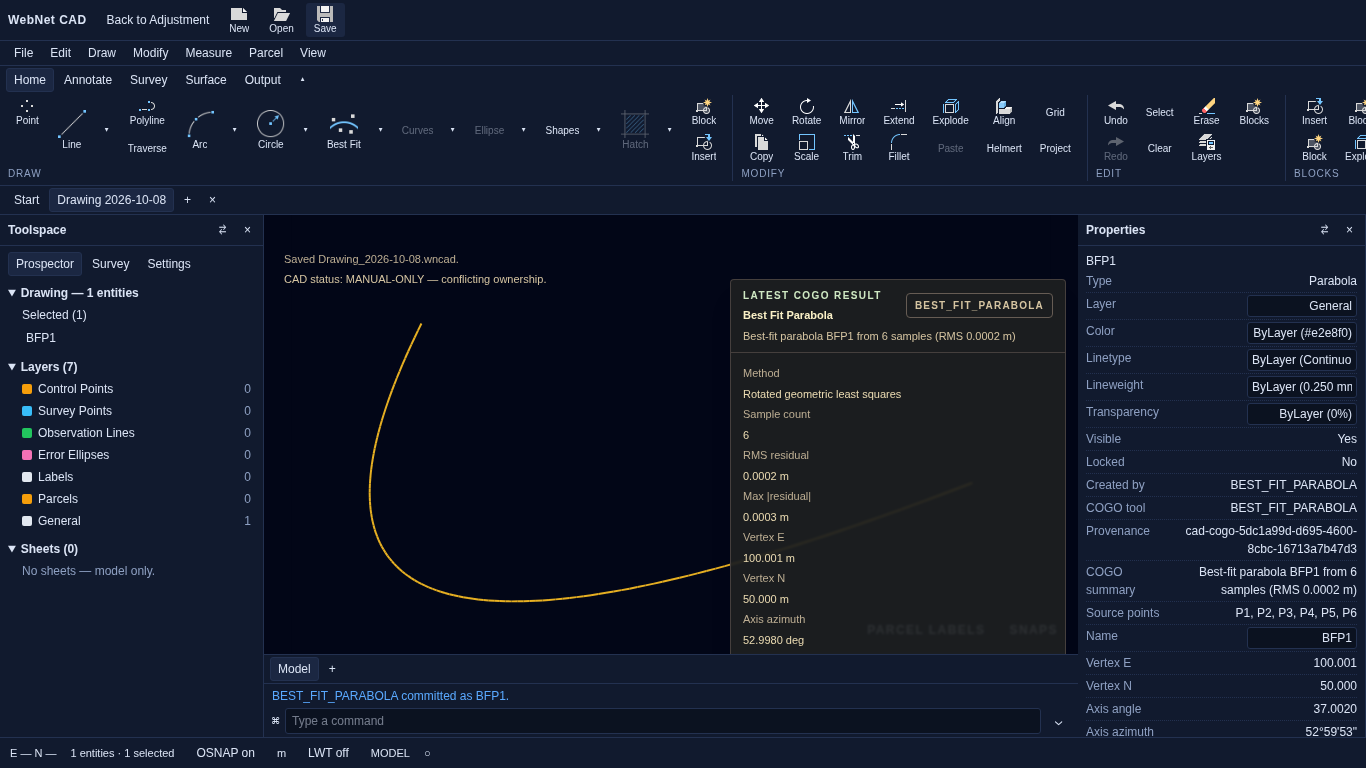
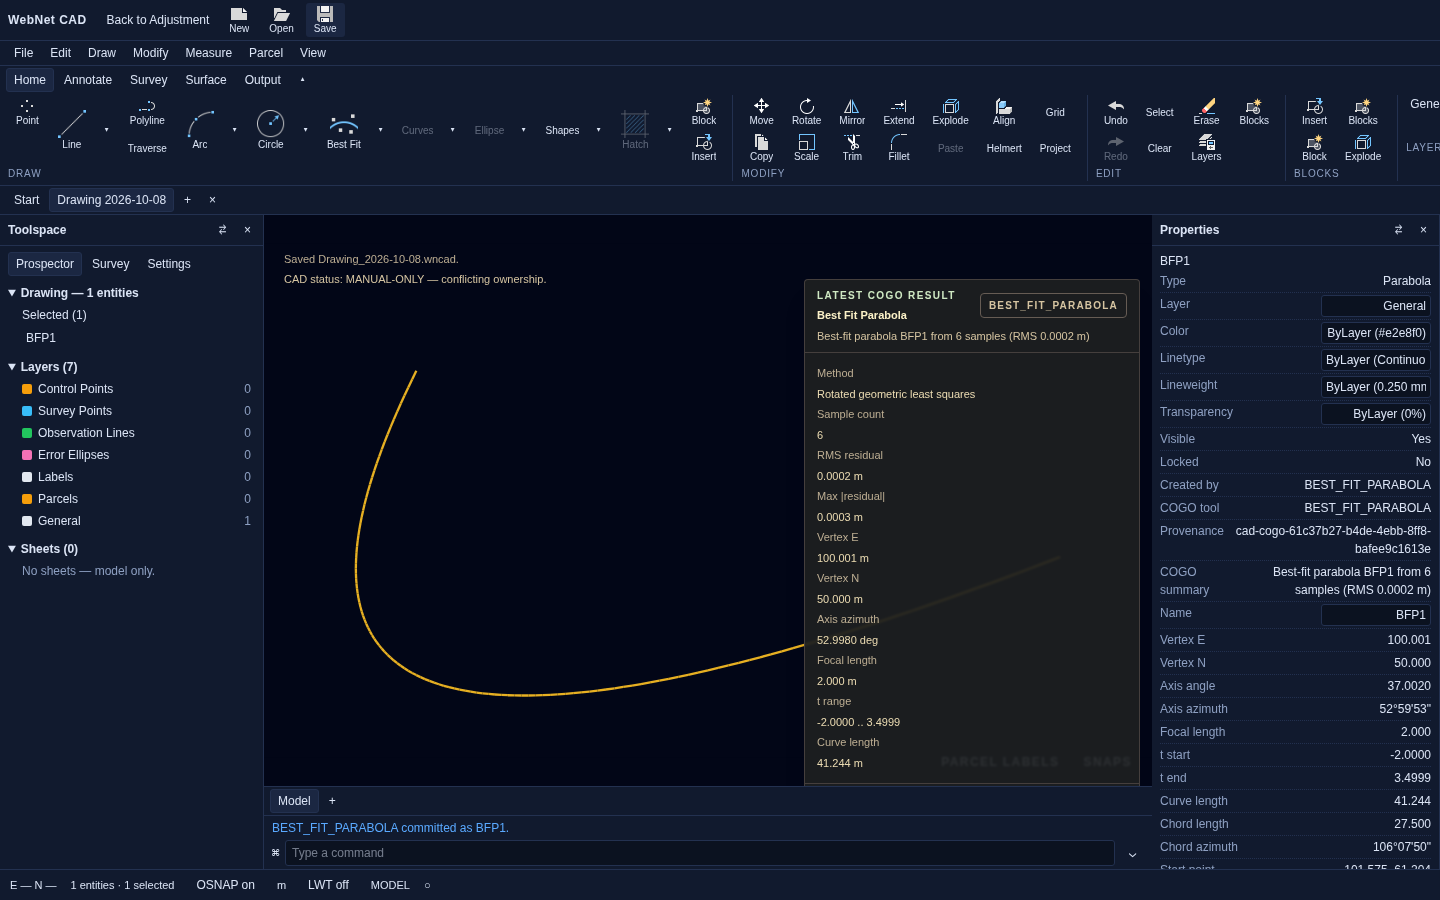
E1 correction: gate best-fit sourcePointIds to true survey points
Free-pick P<n> labels no longer persist as source-point IDs in any of
the three commit paths; residual snapshots keep P<n> rows. Update
provenance law docs, validation counts, browser-qa staleness note, and
regenerate browser evidence screenshots.

diff --git a/tests/cad_best_fit_commands_c1.test.ts b/tests/cad_best_fit_commands_c1.test.ts
@@ -9,12 +9,15 @@
 import { describe, expect, it } from 'vitest';
 
 import { createBlankCadProject } from '../src/engine/cad/cadDrawingFile';
+import { buildCadPropertiesPanelState } from '../src/engine/cad/cadProperties';
 import type { CadCogoComputation } from '../src/engine/cad/cadCogoTypes';
 import type {
   CadArcEntity,
+  CadEntity,
   CadParabolaEntity,
   CadPolylineEntity,
   CadProject,
+  CadSurveyPointEntity,
 } from '../src/engine/cad/cadTypes';
 import type { CadCommand } from '../src/engine/cad/cadTransactions.types';
 import {
@@ -26,6 +29,24 @@ import {
 } from '../src/engine/cad/cadUndoRedo';
 
 const blankProject = (): CadProject => createBlankCadProject({ name: 'best fit', units: 'm' });
+
+const surveyPoint = (id: string, stationId: string, x: number, y: number): CadSurveyPointEntity => ({
+  id,
+  type: 'survey-point',
+  layerId: 'general',
+  visible: true,
+  locked: false,
+  x,
+  y,
+  stationId,
+  pointClass: 'free',
+  source: 'parsed-input',
+});
+
+const projectWithSurvey = (...points: CadSurveyPointEntity[]): CadProject => ({
+  ...blankProject(),
+  entities: [...points],
+});
 
 const lineSamples = () => [
   { x: 0, y: 0.1, label: 'P1' },
@@ -125,15 +146,16 @@ describe('best-fit line transaction', () => {
   });
 
   it('snapshots provenance inputs and source ids', () => {
+    const project = projectWithSurvey(surveyPoint('pt-a', 'A1', 0, 0), surveyPoint('pt-b', 'A2', 10, 0));
     const samples = [
       { x: 0, y: 0, label: 'A1', sourceEntityId: 'pt-a' },
       { x: 10, y: 0.5, label: 'A2', sourceEntityId: 'pt-b' },
       { x: 20, y: -0.4, label: 'P3' },
     ];
-    const history = run({ key: 'BEST_FIT_LINE', samples });
+    const history = run({ key: 'BEST_FIT_LINE', samples }, project);
     const computation = computationsOf(history.present.project)[0]!;
     expect(computation.provenance.sourceEntityIds).toEqual(['pt-a', 'pt-b']);
-    expect(computation.provenance.sourcePointIds).toEqual(['A1', 'A2', 'P3']);
+    expect(computation.provenance.sourcePointIds).toEqual(['A1', 'A2']);
     const snapshot = computation.provenance.inputs['samples'] as typeof samples;
     expect(snapshot).toEqual(samples);
     expect(snapshot).not.toBe(samples);
@@ -215,6 +237,102 @@ describe('best-fit parabola transaction', () => {
     expect(undone.present.project.entities).toHaveLength(0);
     const redone = redoCadHistory(undone);
     expect(redone.present.project.entities).toHaveLength(1);
+  });
+});
+
+describe('best-fit source-point attribution', () => {
+  const surveyPoints = [surveyPoint('pt-a', 'A1', 0, 0), surveyPoint('pt-b', 'A2', 10, 10)];
+
+  it('keeps an all-free-pick fit free of source points while retaining P<n> labels', () => {
+    const samples = lineSamples();
+    const history = run({ key: 'BEST_FIT_LINE', samples }, projectWithSurvey(...surveyPoints));
+    const computation = computationsOf(history.present.project)[0]!;
+    expect(computation.provenance.sourcePointIds).toEqual([]);
+    expect(computation.provenance.sourceEntityIds).toEqual([]);
+    const snapshot = computation.provenance.inputs['samples'] as Array<{ label: string }>;
+    expect(snapshot.map((entry) => entry.label)).toEqual(['P1', 'P2', 'P3', 'P4']);
+    expect(computation.report.tables![0]!.rows.map((row) => row[0])).toEqual(['P1', 'P2', 'P3', 'P4']);
+    // The Properties "Source points" row reads metadata.cogo.sourcePointIds, so
+    // the display stays gated with the provenance field.
+    const entity = onlyEntityOfType(history.present.project, 'polyline');
+    const meta = entity.metadata?.['cogo'] as { sourcePointIds: string[] };
+    expect(meta.sourcePointIds).toEqual([]);
+    const panel = buildCadPropertiesPanelState(history.present.project, [entity]);
+    expect(panel?.mode).toBe('single');
+    if (!panel || panel.mode !== 'single') throw new Error('best-fit properties missing');
+    expect(panel.entity.properties.find((row) => row.label === 'Source points')).toBeUndefined();
+  });
+
+  it('keeps only true survey station ids for a mixed survey + free fit', () => {
+    const samples = [
+      { x: 0, y: 0, label: 'A1', sourceEntityId: 'pt-a' },
+      { x: 10, y: 10, label: 'A2', sourceEntityId: 'pt-b' },
+      { x: 20, y: 19.5, label: 'P1' },
+      { x: 30, y: 30.1, label: 'P2' },
+    ];
+    const history = run({ key: 'BEST_FIT_LINE', samples }, projectWithSurvey(...surveyPoints));
+    const computation = computationsOf(history.present.project)[0]!;
+    expect(computation.provenance.sourcePointIds).toEqual(['A1', 'A2']);
+    expect(computation.provenance.sourceEntityIds).toEqual(['pt-a', 'pt-b']);
+    expect(computation.report.tables![0]!.rows.map((row) => row[0])).toEqual(['A1', 'A2', 'P1', 'P2']);
+  });
+
+  it('does not surface P<n> labels when a non-survey entity is the snap source', () => {
+    const project: CadProject = {
+      ...blankProject(),
+      entities: [
+        {
+          id: 'line-1',
+          type: 'line',
+          layerId: 'general',
+          visible: true,
+          locked: false,
+          fromStationId: 'A1',
+          toStationId: 'A2',
+        } as unknown as CadEntity,
+      ],
+    };
+    const samples = [
+      { x: 0, y: 0, label: 'P1', sourceEntityId: 'line-1' },
+      { x: 10, y: 10.2, label: 'P2', sourceEntityId: 'line-1' },
+      { x: 20, y: 19.8, label: 'P3' },
+      { x: 30, y: 30.3, label: 'P4' },
+    ];
+    const history = run({ key: 'BEST_FIT_LINE', samples }, project);
+    const computation = computationsOf(history.present.project)[0]!;
+    expect(computation.provenance.sourcePointIds).toEqual([]);
+    expect(computation.provenance.sourceEntityIds).toEqual(['line-1']);
+  });
+
+  it('gates arc and parabola source points the same way', () => {
+    const arcHistory = run(
+      {
+        key: 'BEST_FIT_ARC',
+        samples: [
+          { x: 10, y: 0, label: 'A1', sourceEntityId: 'pt-a' },
+          { x: 7.07, y: 7.07, label: 'P1' },
+          { x: 0, y: 10, label: 'P2' },
+          { x: -7.07, y: 7.07, label: 'P3' },
+        ],
+      },
+      projectWithSurvey(...surveyPoints),
+    );
+    expect(computationsOf(arcHistory.present.project)[0]!.provenance.sourcePointIds).toEqual(['A1']);
+    const parabolaHistory = run(
+      {
+        key: 'BEST_FIT_PARABOLA',
+        samples: [
+          { x: 0, y: 0, label: 'P1' },
+          { x: 1, y: 1, label: 'P2' },
+          { x: 2, y: 4, label: 'P3' },
+          { x: 3, y: 9, label: 'P4' },
+          { x: 4, y: 16, label: 'P5' },
+          { x: 5, y: 25, label: 'P6' },
+        ],
+      },
+      projectWithSurvey(...surveyPoints),
+    );
+    expect(computationsOf(parabolaHistory.present.project)[0]!.provenance.sourcePointIds).toEqual([]);
   });
 });
 

diff --git a/src/engine/cad/cadTransactionsBestFitCommands.ts b/src/engine/cad/cadTransactionsBestFitCommands.ts
@@ -23,7 +23,7 @@ import {
 } from './cadTransactionsCogoReports';
 import { nextEntityName } from './cadTransactionsEntityFactories';
 import type { CadCommandDefinition } from './cadTransactions.types';
-import type { CadEntity } from './cadTypes';
+import type { CadEntity, CadProject } from './cadTypes';
 
 export interface BestFitSampleInput {
   x: number;
@@ -66,6 +66,33 @@ const distinctSourceIds = (samples: readonly BestFitSampleInput[]): string[] => 
     if (sample.sourceEntityId != null) seen.add(sample.sourceEntityId);
   }
   return [...seen];
+};
+
+/**
+ * Source-point IDs are survey station ids only. A free pick is labelled
+ * `P<n>` by the session and carries no survey attribution, so it must never
+ * surface as a source point. Resolve each sample source against the live
+ * project and keep the station id of true survey-point sources.
+ */
+const surveySourcePointIds = (
+  project: CadProject,
+  samples: readonly BestFitSampleInput[],
+): string[] => {
+  const surveyPoints = new Map(
+    project.entities
+      .filter(
+        (entity): entity is Extract<CadProject['entities'][number], { type: 'survey-point' }> =>
+          entity.type === 'survey-point',
+      )
+      .map((entity) => [entity.id, entity.stationId] as const),
+  );
+  const labels: string[] = [];
+  for (const sample of samples) {
+    if (sample.sourceEntityId == null) continue;
+    const stationId = surveyPoints.get(sample.sourceEntityId);
+    if (stationId != null) labels.push(stationId);
+  }
+  return labels;
 };
 
 const commonRows = (method: string, sampleCount: number, rms: number, maxAbs: number): CadCogoReportRow[] => [
@@ -142,7 +169,7 @@ const commitLineResult = (
     toolKey: 'BEST_FIT_LINE',
     summary,
     sourceEntityIds: distinctSourceIds(command.samples),
-    sourcePointIds: command.samples.map((sample) => sample.label),
+    sourcePointIds: surveySourcePointIds(snapshot.project, command.samples),
     inputs: { samples: snapshotSamples(command.samples) },
     parameters: { method: 'orthogonal-least-squares' },
   });
@@ -206,7 +233,7 @@ const commitArcResult = (
     toolKey: 'BEST_FIT_ARC',
     summary,
     sourceEntityIds: distinctSourceIds(command.samples),
-    sourcePointIds: command.samples.map((sample) => sample.label),
+    sourcePointIds: surveySourcePointIds(snapshot.project, command.samples),
     inputs: { samples: snapshotSamples(command.samples) },
     parameters: { method: 'geometric-least-squares' },
   });
@@ -283,7 +310,7 @@ const commitParabolaResult = (
     toolKey: 'BEST_FIT_PARABOLA',
     summary,
     sourceEntityIds: distinctSourceIds(command.samples),
-    sourcePointIds: command.samples.map((sample) => sample.label),
+    sourcePointIds: surveySourcePointIds(snapshot.project, command.samples),
     inputs: { samples: snapshotSamples(command.samples) },
     parameters: { method: 'rotated-geometric-least-squares' },
   });

diff --git a/docs/evidence/cad-best-fit-e1/validation.md b/docs/evidence/cad-best-fit-e1/validation.md
@@ -10,7 +10,7 @@ Worker B entity semantics are reused untouched.
 
 | Suite | Tests | Result |
 |---|---|---|
-| `tests/cad_best_fit_commands_c1.test.ts` (new: atomic 1+1, undo/redo, layer, provenance snapshot, report rows=tables=sample count, failure-zero-mutation ×3) | 15 | pass |
+| `tests/cad_best_fit_commands_c1.test.ts` (atomic 1+1, undo/redo, layer, provenance snapshot, source-point gating, report rows=tables=sample count, failure-zero-mutation ×3) | 19 | pass |
 | `tests/cad_best_fit_sessions_c1.test.tsx` (new: registry/aliases/gates, collection, typed, attribution, duplicates, U, min-gate, commit+report-forward, failure-stays, canFinish, prompt, preseed, preview, dock suppression) | 21 | pass |
 | `tests/cad_best_fit_line.test.ts` (Worker A, untouched) | 10 | pass |
 | `tests/cad_best_fit_arc.test.ts` (Worker A, untouched) | 9 | pass |
@@ -20,7 +20,7 @@ Worker B entity semantics are reused untouched.
 | Polyline C3 command neighbors | 23 | pass |
 | Ribbon families + controls + icon manifest + shell registry | 64 | pass |
 
-Total focused: 71 new Worker C tests + 363 neighboring assertions green,
+Total focused: 75 new Worker C tests + 363 neighboring assertions green,
 zero Worker A/B semantic changes.
 
 ## 2. Typecheck / build

diff --git a/docs/evidence/cad-best-fit-e1/residual-report.md b/docs/evidence/cad-best-fit-e1/residual-report.md
@@ -50,6 +50,9 @@ in input order). Row count always equals the sample count.
 `[{ x, y, label, sourceEntityId? }]` taken at commit; later edits to the
 session or the drawing never rewrite it. `sourceEntityIds` carries the
 distinct sample source entity ids (survey points, snapped geometry, or
-absent for free picks); `sourcePointIds` carries the sample labels. The
-created entity's `metadata.cogo` records `toolKey`, `provenanceId`,
-`inputs`, and `resultSummary`, so the saved file stays traceable.
+absent for free picks); `sourcePointIds` carries only the station ids of
+samples whose source resolves to a survey point. A free pick keeps its
+`P<n>` label in the snapshot and residual table, but is never listed as a
+source point (no-station-mislabeling law). The created entity's
+`metadata.cogo` records `toolKey`, `provenanceId`, `inputs`, and
+`resultSummary`, so the saved file stays traceable.

diff --git a/docs/evidence/cad-best-fit-e1/browser-qa.md b/docs/evidence/cad-best-fit-e1/browser-qa.md
@@ -21,7 +21,10 @@ zero unhandled rejections.** Screenshots + `geometry.json` live in
 - `B-line-report.png`: committed `BFL1` polyline selected; `LATEST COGO
   RESULT` shows Method / Sample count / RMS / Max / Azimuth 44.9388° /
   Bearing N44-56-19.74E / Span; Properties shows `Created by
-  BEST_FIT_LINE`, source points `P1..P4`, 2 vertices, open.
+  BEST_FIT_LINE`, source points `P1..P4`, 2 vertices, open. **Stale note:**
+  this capture predates the no-station-mislabeling fix; the four samples
+  are free picks, so current builds must NOT show a `Source points` row
+  (the labels stay `P1..P4` in the residual table).
 - `D-parabola-properties.png`: committed `BFP1`; report shows the rotated
   geometric method with vertex (100.001, 50.000), focal ≈ 2.0 (the 37°
   fixture value, asserted in flow D), axis azimuth 52°59'53";
